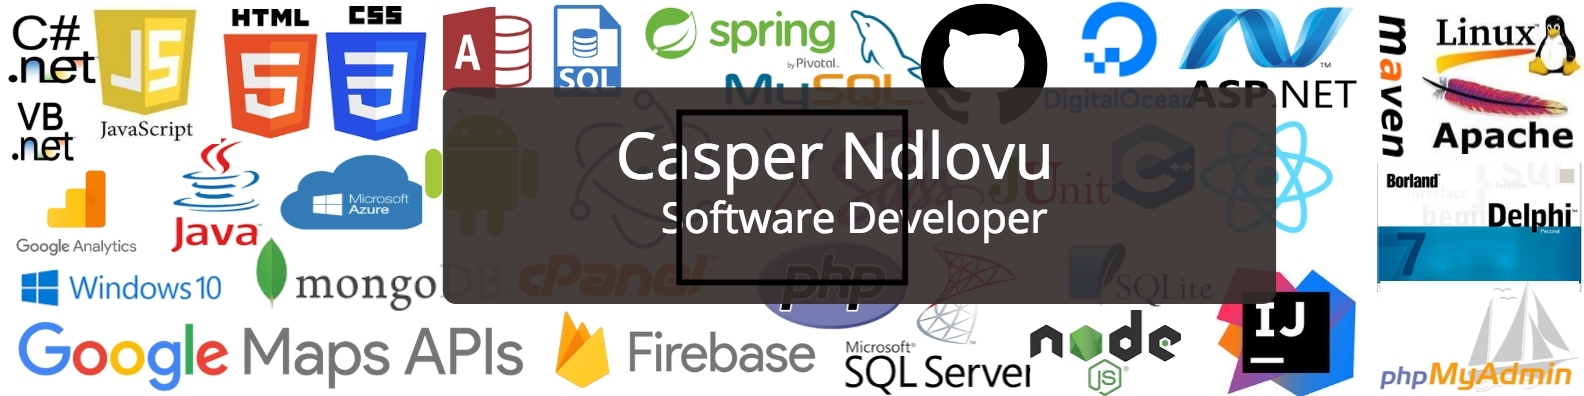
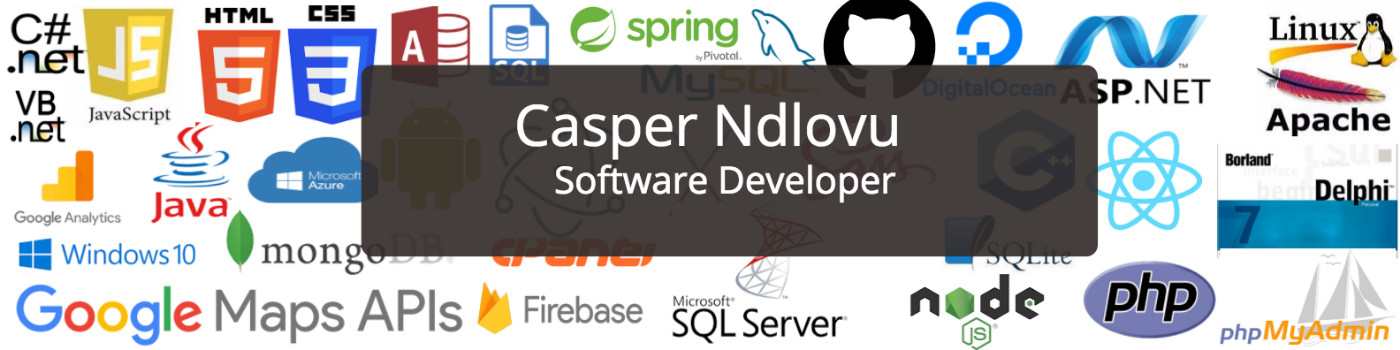
Bound slideshow's next/previous buttons to their respective methods. Added cover photo.

diff --git a/src/components/slideshow/index.jsx b/src/components/slideshow/index.jsx
@@ -25,7 +25,7 @@ class Slideshow extends Component
       window.setInterval(() =>
         {
           this.goToNextSlide()
-        }, 3000);
+        }, 8000);
     }
   }
 
@@ -50,7 +50,10 @@ class Slideshow extends Component
         <div
           className='slideshow'
           style={{
-            background: 'url('+ this.props.images[this.state.index] + ')'
+            background: 'url('+ this.props.images[this.state.index] + ')',
+            backgroundRepeat: 'no-repeat',
+            backgroundSize: 'contain',
+            backgroundPosition: 'center'
           }}
         />
         {/* Slider buttons */}
@@ -63,6 +66,7 @@ class Slideshow extends Component
             backgroundSize: '70% 70%',
             backgroundPosition: '15px 10px'
           }}
+          onClick={()=>this.goToPreviousSlide()}
         />
         <div
           className='slider-btn'
@@ -73,6 +77,7 @@ class Slideshow extends Component
             backgroundSize: '70% 70%',
             backgroundPosition: '15px 10px'
           }}
+          onClick={()=>this.goToNextSlide()}
         />
         {/* Slider nav */}
         <div style={{marginTop: '-50px'}}>

diff --git a/src/components/nav/index.jsx b/src/components/nav/index.jsx
@@ -62,7 +62,8 @@ class Nav extends React.Component
                   height: '70px',
                   // marginLeft: '-10px',
                   // float: 'left',
-                  border: '1px solid #fff'
+                  border: '1px solid #fff',
+                  visibility: 'hidden'
                 }}
               >
                 Background
@@ -79,7 +80,8 @@ class Nav extends React.Component
                   height: '70px',
                   // marginLeft: '-10px',
                   // float: 'left',
-                  border: '1px solid #fff'
+                  border: '1px solid #fff',
+                  visibility: 'hidden'
                 }}
               >
                 Other Interests

diff --git a/src/App.css b/src/App.css
@@ -109,12 +109,17 @@ header
 {
   position: absolute;
   margin-top: -58px;
-  left: 22.5%;
+  left: 52.5%;
   width: 350px;
   height: 100px;
   background: url(http://casperweb.herokuapp.com/arrow-left-solid.svg);
   background-repeat: no-repeat;
   background-position: 0% 0%;
+}
+
+.education-info-container
+{
+  padding-bottom: 15vh;
 }
 
 .education-info-left
@@ -143,7 +148,7 @@ header
 
 .work-history-container
 {
-  height: 400px;
+  height: 500px;
 }
 
 .skill-container
@@ -179,6 +184,12 @@ header
   border-radius: 80px;
   border: 2px dashed #ff7200;
   z-Index: 1;
+}
+
+.slider-btn:hover
+{
+  box-shadow: #343434 0px 0px 20px;
+  border: 3px solid #ff7200;
 }
 
 @keyframes App-logo-spin {
